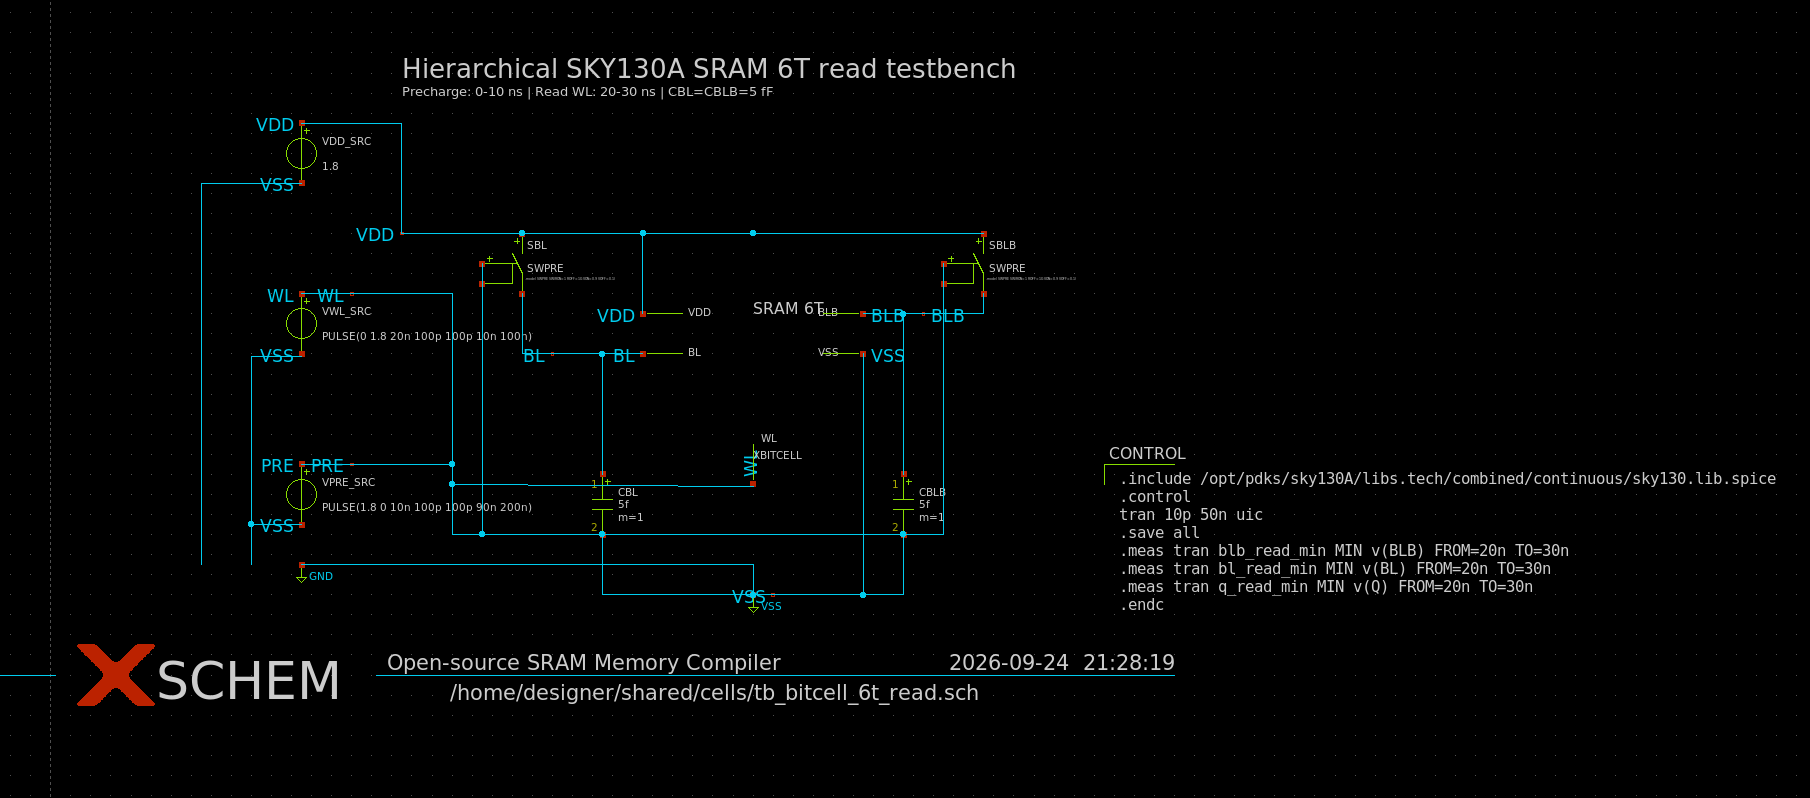
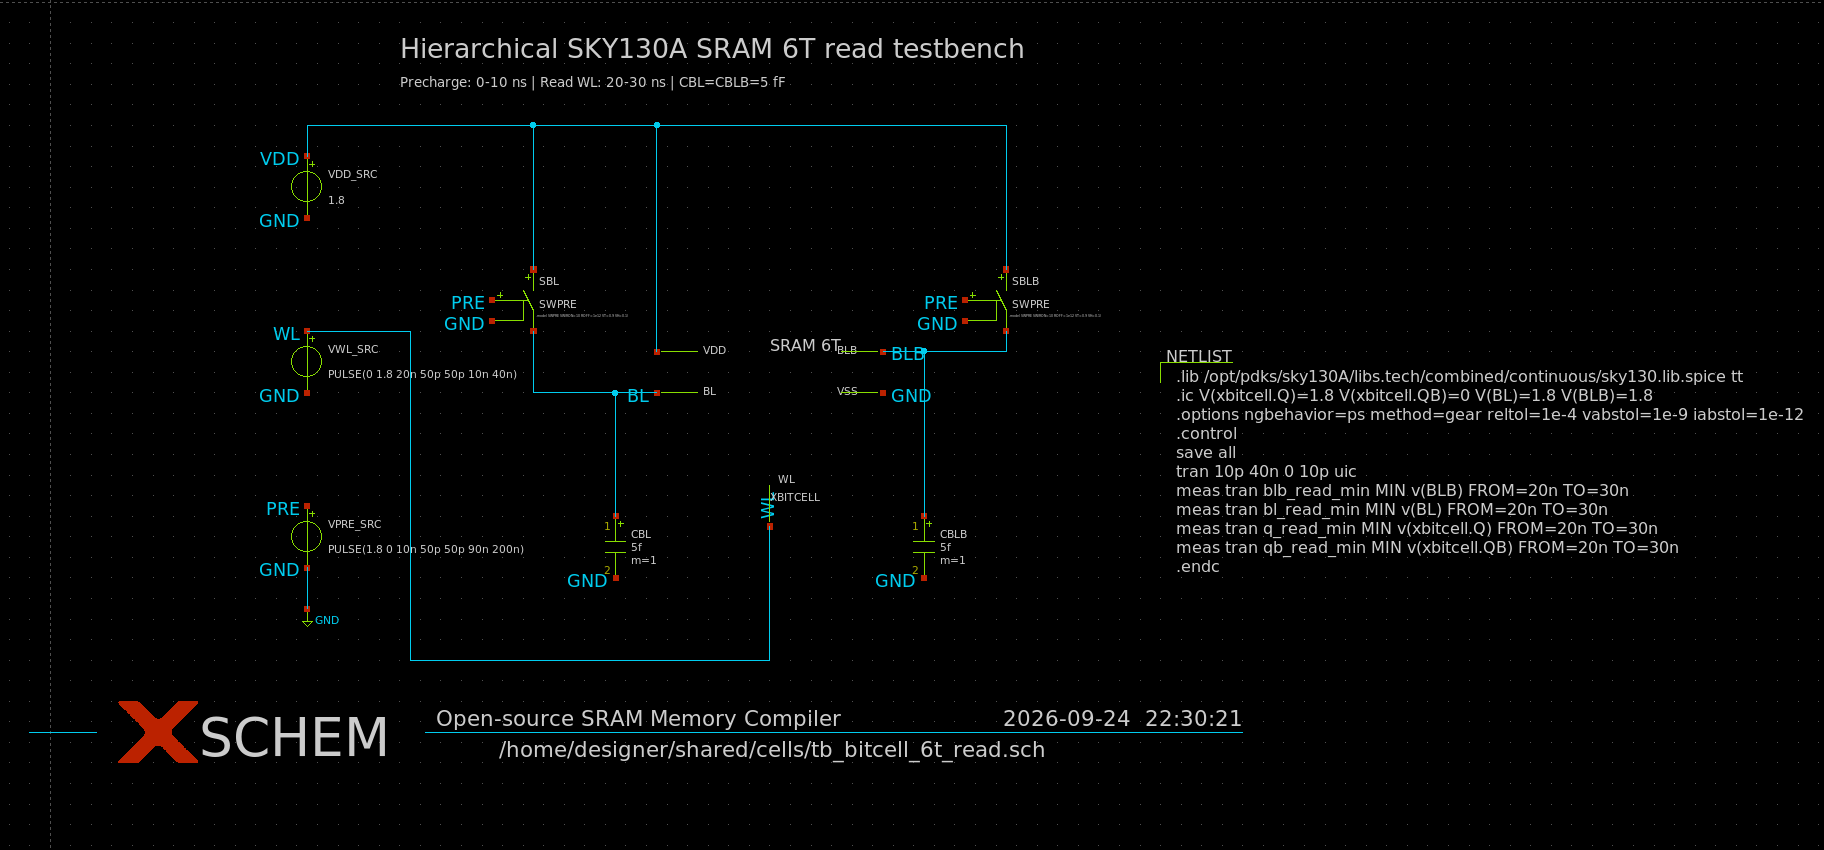
docs: update SKY130A bitcell validation
Documenta os testes isolado e hierárquico, as dificuldades com modelos e análise transitória, os resultados corrigidos e as limitações do sizing provisório.

diff --git a/docs/relatorio_validacao_bitcell_6t_sky130.md b/docs/relatorio_validacao_bitcell_6t_sky130.md
@@ -96,7 +96,7 @@ O testbench contém a instância `XBITCELL`, fontes de `VDD`, `WL` e `PRE`,
 chaves ideais de pré-carga em `BL` e `BLB`, capacitores de 5 fF nas bitlines e
 um bloco de controle com as medições de leitura. A sequência representada é:
 
-- pré-carga de 0 ns a 10 ns;
+- pré-carga desligada após 10 ns;
 - leitura com `WL` ativo de 20 ns a 30 ns;
 - observação de `BL`, `BLB` e `Q`.
 
@@ -111,17 +111,17 @@ cells/bitcell_6t.sym
 cells/tb_bitcell_6t_read.sch
 ~~~
 
-A geração do netlist hierárquico foi verificada. O símbolo expandiu a célula
-com a interface `VDD BL BLB VSS WL`, preservando a conectividade dos seis
-transistores e dos nós internos `Q` e `QB`. A captura é usada para inspeção
-visual e edição dos estímulos; a validação elétrica oficial continua sendo
-executada pelo deck externo `sims/tb_bitcell_6t_read.spice`.
+A geração e a simulação do netlist hierárquico foram verificadas no corner
+`tt`. O símbolo expande a interface `VDD BL BLB VSS WL` e permite passar
+`WPU`, `WPD` e `WACC`. A instância do testbench usa 0,42 µm nos seis
+transistores; os valores alvo continuam como padrões do símbolo e ainda não
+foram validados no conjunto de modelos contínuos instalado.
 
 Foram preparados os seguintes arquivos em cells/:
 
 | Arquivo | Função | Estado |
 |---|---|---|
-| bitcell_6t.sch | bitcell SRAM 6T | captura canônica, ainda não aprovada por netlist |
+| bitcell_6t.sch | bitcell SRAM 6T | netlist hierárquico e simulação `tt` verificados com sizing provisório |
 | sense_amp.sch | voltage-latch sense amplifier | rascunho estrutural |
 | precharge.sch | pré-carga e equalização | rascunho estrutural |
 | wl_driver.sch | driver de WL | rascunho estrutural |
@@ -134,7 +134,9 @@ Os nomes de sinais foram padronizados como:
 BL BLB WL SCLK PRECH DATA DATA_B WE VDD VSS SA_OUT SA_OUTB
 ~~~
 
-O sense_amp foi definido como um latch diferencial habilitado por SCLK. Os símbolos .sym ainda não foram considerados aprovados, pois a inspeção de conectividade e a geração de netlist do Xschem não foram concluídas.
+O sense_amp foi definido como um latch diferencial habilitado por SCLK. Os
+símbolos das células periféricas ainda dependem de inspeção de conectividade
+e validação elétrica próprias.
 
 ## 3. Preparação do ambiente gráfico
 
@@ -171,7 +173,7 @@ export PDK_ROOT=/opt/pdks
 xschem cells/bitcell_6t.sch
 ~~~
 
-## 4. Problema encontrado no netlist Xschem
+## 4. Dificuldades com o netlist e a simulação Xschem
 
 Ao tentar simular diretamente bitcell_6t.sch, o Xschem gerou instâncias como:
 
@@ -185,26 +187,84 @@ O ngspice reportou:
 Unknown subckt: xmp1 ... sky130_fd_pr__pfet_01v8
 ~~~
 
-Os símbolos sky130_fd_pr/pfet_01v8.sym e nfet_01v8.sym geram instâncias X, enquanto a biblioteca contínua usada pelo smoke test fornece modelos compatíveis com outra forma de instanciação. Por isso, a simulação direta do esquemático Xschem ficou pendente.
+Os símbolos `sky130_fd_pr` geram instâncias `X`. Ao netlistar a folha
+isoladamente, a biblioteca contínua não estava incluída e o ngspice não
+reconhecia `sky130_fd_pr__pfet_01v8` e `sky130_fd_pr__nfet_01v8`. Foi incluído
+em `bitcell_6t.sch` um bloco `netlist.sym` marcado `only_toplevel=true`, com a
+biblioteca SKY130A `tt` e parâmetros provisórios de 0,42 µm. Assim, o modelo
+fica disponível ao netlist isolado; dentro da hierarquia esse bloco é omitido,
+pois o testbench já carrega a biblioteca e fornece os parâmetros da instância.
 
-Os avisos sobre arquivos OSDI, como psp103_nqs.osdi, não foram a causa fatal desse erro.
+A bitcell continua sendo uma leaf cell. Para que o botão **Simulate** também
+seja útil quando `bitcell_6t.sch` estiver aberta diretamente, o bloco top-level
+foi ampliado com um smoke test local: fontes de VDD, WL e PRE, duas chaves de
+pré-carga, cargas de 5 fF, condições iniciais e análise transitória. Todo esse
+conteúdo usa `only_toplevel=true`, portanto não entra no subcircuito quando a
+bitcell é instanciada por outro esquemático.
 
-### 4.1 Separação entre captura hierárquica e deck elétrico
+Os avisos sobre arquivos OSDI ausentes, como `psp103_nqs.osdi`, são distintos
+da falha `Unknown subckt`; eles não impedem essa simulação com a biblioteca
+contínua.
 
-O testbench hierárquico foi criado para permitir a inspeção visual da
-conexão entre a bitcell e o circuito de pré-carga. A expansão Xschem foi
-confirmada no arquivo de simulação com a instância:
+### 4.1 Tentativa de simulação da bitcell isolada
 
-~~~spice
-XBITCELL VDD BL BLB GND WL bitcell_6t
-.subckt bitcell_6t VDD BL BLB VSS WL
+O erro observado foi:
+
+~~~text
+Error: unknown subckt: xmpl q qb vdd vdd sky130_fd_pr__pfet_01v8 ...
 ~~~
 
-Essa verificação comprova a hierarquia e a ordem dos pinos, mas não substitui
-a execução elétrica do deck externo já validado. A simulação hierárquica pelo
-botão de simulação do Xschem permanece condicionada à compatibilidade entre os
-modelos gerados pelos símbolos `sky130_fd_pr` e a biblioteca contínua carregada
-no container.
+O netlist gerado referenciava subcircuitos SKY130 sem carregar a biblioteca e
+usava parâmetros de sizing sem valores no contexto top-level. O primeiro
+ajuste carregou `sky130.lib.spice tt` e definiu
+`WPU=WPD=WACC=0.42 µm`. Isso removeu `unknown subckt`, mas revelou a mensagem:
+
+~~~text
+Warning: No job (tran, ac, op etc.) defined:
+run simulation not started
+~~~
+
+Essa segunda mensagem não indicava falha de modelo. Ela mostrava que a folha
+não possuía uma análise. O bloco foi então convertido em `STANDALONE_TEST`,
+com estímulos equivalentes aos do testbench hierárquico e o comando
+`tran 10p 40n 0 10p uic`.
+
+A simulação isolada passou a produzir:
+
+~~~text
+No. of Data Rows : 4038
+blb_read_min = 3.727678e-08 V
+bl_read_min  = 1.799997 V
+bl_21n       = 1.835385 V
+blb_21n      = 3.727678e-08 V
+delta_21n    = 1.835385 V
+q_read_min   = 1.778301 V
+qb_read_min  = 3.060375e-08 V
+binary raw file "bitcell_6t.raw"
+~~~
+
+Esse smoke test valida a leitura de Q=1/QB=0 no corner `tt`, com 5 fF e
+sizing uniforme de 0,42 µm. Ele não substitui o sweep de corners, estados e
+capacitâncias executado pelo deck externo.
+
+### 4.2 Simulação hierárquica de leitura
+
+O testbench hierárquico permite inspecionar as conexões e executar a leitura
+no Xschem. A expansão foi confirmada com:
+
+~~~spice
+XBITCELL VDD BL BLB GND WL bitcell_6t WPU=0.42 WPD=0.42 WACC=0.42
+.subckt bitcell_6t VDD BL BLB VSS WL WPU=0.21 WPD=0.42 WACC=0.30
+~~~
+
+O erro `could not find a valid modelname` ocorria porque as larguras alvo de
+0,21 e 0,30 µm não selecionam bins válidos dos modelos contínuos instalados.
+Com a instância provisória de 0,42 µm, `.lib .../sky130.lib.spice tt` e
+condições iniciais nos nós `xbitcell.Q`/`xbitcell.QB`, o netlist hierárquico
+foi simulado pelo ngspice sem esse erro. A diferença em 21 ns foi
+`1,835385 V`; o mínimo de Q durante a leitura foi `1,778301 V`. O deck
+externo produziu `1,83618 V` e `1,773700 V`, respectivamente. A pequena
+diferença reflete detalhes distintos de parasitas das instâncias.
 
 ## 5. Testes manuais sem automação
 
@@ -277,19 +337,27 @@ cd /home/designer/shared/sims
 ngspice -n -b tb_bitcell_6t_read.spice | tee tb_bitcell_6t_read_5f.log
 ~~~
 
-Para CBL=CBLB=5 fF, o resultado foi:
+Para CBL=CBLB=5 fF, após corrigir o período de `PRE`, o resultado foi:
 
 ~~~text
 bl_pre              = 1.800000 V
 blb_pre             = 1.800000 V
-blb_read_min        = 0.9531515 V
-delta_max           = 1.8 - 0.9531515 = 0.8468485 V
-q_read_min          = 1.799998 V
+bl_21n              = 1.836183 V
+blb_21n             = 0.000000046 V
+delta_21n           = 1.83618 V
+q_read_min          = 1.773700 V
 ~~~
 
-O valor medido em 29 ns foi somente 1,08432 mV, porque o diferencial já havia se recuperado nesse instante. A métrica correta passou a ser a maior queda durante toda a janela de leitura:
+Na versão anterior, `PRE` voltava ao nível alto em 20 ns, junto com `WL`.
+Por isso, o diferencial de `1,08432 mV` em 29 ns e a queda máxima de
+`0,8468485 V` não mediam a leitura com a pré-carga desligada. Esses
+resultados foram substituídos. A medição de `blb_read_min` continua útil para
+acompanhar a descarga completa, mas o critério automatizado usa a diferença
+entre `BL` e `BLB` em 21 ns:
 
 ~~~spice
+.meas tran bl_21n FIND V(bl) AT=21n
+.meas tran blb_21n FIND V(blb) AT=21n
 .meas tran blb_read_min MIN V(blb) FROM=20n TO=30n
 ~~~
 
@@ -310,8 +378,8 @@ O script:
 3. testa os estados Q=1/QB=0 e Q=0/QB=1;
 4. troca automaticamente o corner do .lib;
 5. executa o ngspice em arquivos temporários;
-6. extrai bl_read_min, blb_read_min, q_read_min e qb_read_min;
-7. calcula delta_max na bitline que deve descarregar;
+6. extrai BL/BLB em 21 ns, os mínimos das bitlines e os mínimos de Q/QB;
+7. calcula o diferencial em 21 ns com a polaridade esperada para cada estado;
 8. verifica o nó armazenado em nível alto;
 9. salva o resultado em CSV;
 10. retorna código diferente de zero se algum caso falhar.
@@ -319,7 +387,7 @@ O script:
 Critérios usados pelo script:
 
 ~~~text
-delta_max >= 50 mV
+delta_21n >= 50 mV
 nó armazenado em nível alto >= 0,9 V
 ~~~
 
@@ -360,21 +428,21 @@ sims/bitcell_read_sweep.csv
 
 Todos os 40 casos executados retornaram PASS com os critérios provisórios do script.
 
-O pior caso foi:
+O menor diferencial em 21 ns foi:
 
-| Corner | Capacitância | Estado | Bitline descarregada | delta_max |
+| Corner | Capacitância | Estado | Bitline descarregada | delta_21n |
 |---|---:|---:|---|---:|
-| ss | 50 fF | Q=1 ou Q=0 | BLB ou BL | 67,325 mV |
+| ss | 50 fF | Q=1 ou Q=0 | BLB ou BL | 1,4258955 V |
 
-Menores margens por corner em 50 fF:
+Menores diferenciais por corner em 50 fF:
 
-| Corner | delta_max mínimo |
+| Corner | delta_21n mínimo |
 |---|---:|
-| tt | 90,174 mV |
-| ff | 116,404 mV |
-| ss | 67,325 mV |
-| fs | 71,310 mV |
-| sf | 111,131 mV |
+| tt | 1,6381313 V |
+| ff | 1,7337567 V |
+| ss | 1,4258955 V |
+| fs | 1,4886067 V |
+| sf | 1,7171562 V |
 
 Esses resultados mostram margem acima do critério automatizado de 50 mV para o modelo e o sizing provisório usados.
 
@@ -384,8 +452,8 @@ Os resultados não constituem sign-off da bitcell. Permanecem as seguintes limit
 
 1. O teste automatizado usa WPU=WPD=WACC=0,42 um, não o sizing alvo WPU=0,21 um, WPD=0,42 um e WACC=0,30 um.
 2. O modelo contínuo disponível rejeitou os bins necessários para os valores menores de largura na forma de instância usada.
-3. O critério automatizado foi delta_max >= 50 mV, enquanto a especificação inicial registra como meta provisória 100 mV. No pior caso ss/50 fF, a margem de 67,325 mV passa o critério automatizado, mas não passa a meta de 100 mV.
-4. O netlist gerado diretamente pelos símbolos Xschem ainda não foi validado contra a biblioteca carregada no container.
+3. O critério automatizado usa `delta_21n >= 50 mV`. A janela de detecção real do sense amplifier e a capacitância de uma coluna completa ainda precisam ser definidos.
+4. O testbench hierárquico foi validado no corner `tt` e estado Q=1/QB=0; o sweep de cinco corners e dois estados usa o deck externo.
 5. sense_amp, precharge, wl_driver e write_driver ainda não possuem testbenches elétricos aprovados.
 6. Não foram executados SNM de retenção, SNM de leitura, write margin, leakage, Monte Carlo de mismatch, DRC, LVS ou extração parasitária.
 7. A bitline foi representada por um modelo simples de chave e capacitor. Esse modelo ainda não representa a coluna completa, a resistência dos drivers, o sense amplifier ou a distribuição real de parasitas.
@@ -396,7 +464,8 @@ Os resultados não constituem sign-off da bitcell. Permanecem as seguintes limit
 |---|---|
 | topologia 6T | definida |
 | contrato de pinos | definido |
-| captura inicial Xschem | criada, pendente de netlist compatível |
+| captura inicial Xschem | netlist e conectividade verificados |
+| smoke isolado da bitcell | simulação `tt`, 4038 pontos e arquivo RAW gerado |
 | retenção manual | passou no sizing provisório |
 | escrita manual | passou no sizing provisório |
 | leitura com bitlines ideais | não conclusiva |
@@ -404,7 +473,7 @@ Os resultados não constituem sign-off da bitcell. Permanecem as seguintes limit
 | sweep de capacitância | automatizado |
 | corners tt/ff/ss/fs/sf | 40 casos executados, todos PASS no critério de 50 mV |
 | símbolo hierárquico da bitcell | criado e expandido no netlist Xschem |
-| testbench hierárquico de leitura | criado para inspeção visual; deck externo permanece oficial |
+| testbench hierárquico de leitura | simulado em `tt`; deck externo usado para sweep |
 | sizing alvo 0,21/0,42/0,30 um | pendente |
 | sense amplifier | pendente |
 | drivers e pré-carga | pendentes |
@@ -415,8 +484,8 @@ Os resultados não constituem sign-off da bitcell. Permanecem as seguintes limit
 
 A sequência recomendada é:
 
-1. Resolver a compatibilidade entre os símbolos Xschem e os modelos SKY130A usados no ngspice.
-2. Reexecutar a varredura com o sizing alvo.
+1. Obter modelos válidos para o sizing alvo e reexecutar a varredura.
+2. Definir o instante de habilitação do sense amplifier e a carga real da coluna.
 3. Automatizar retenção e escrita nos cinco corners.
 4. Testar o precharge com equalização e desligamento correto.
 5. Testar o write_driver com DATA, DATA_B e WE.

diff --git a/README.md b/README.md
@@ -159,6 +159,10 @@ O esquemático contém os seis transistores e os nós Q, QB, BL, BLB, WL, VDD
 e VSS. A captura está em
 [docs/assets/bitcell_6t_xschem.png](docs/assets/bitcell_6t_xschem.png).
 
+Quando a bitcell é aberta diretamente, um smoke test `only_toplevel` carrega
+o corner `tt`, aplica pré-carga e WL e grava `bitcell_6t.raw`. Esse bloco usa
+`WPU=WPD=WACC=0.42 µm` e é omitido quando a célula participa da hierarquia.
+
 O testbench visual de leitura é aberto com:
 
 ~~~bash
@@ -179,16 +183,19 @@ com WL ativo de 20 ns a 30 ns.
 
 ![Testbench hierárquico da bitcell SRAM 6T no Xschem](docs/assets/tb_bitcell_6t_read_xschem.png)
 
-A expansão confirmou:
+A expansão confirmou o sizing provisório da instância:
 
 ~~~spice
-XBITCELL VDD BL BLB GND WL bitcell_6t
+XBITCELL VDD BL BLB GND WL bitcell_6t WPU=0.42 WPD=0.42 WACC=0.42
 ~~~
 
-A captura hierárquica serve para inspeção e edição dos estímulos. O deck
-externo continua sendo a referência dos resultados elétricos, pois a simulação
-direta dos símbolos sky130_fd_pr ainda depende da compatibilidade entre o
-netlist gerado e a biblioteca carregada.
+O símbolo mantém como padrão o sizing alvo `WPU=0.21`, `WPD=0.42` e
+`WACC=0.30` µm. A instância do testbench usa 0,42 µm nos seis transistores,
+valor aceito pelo modelo contínuo instalado. O botão **Simulate** do Xschem
+executa o testbench hierárquico em `tt`; o deck externo e o sweep cobrem os
+demais corners e o estado complementar. Os dois fluxos usam pré-carga
+desligada durante toda a leitura. Os nós internos são medidos com os nomes
+hierárquicos `xbitcell.Q` e `xbitcell.QB`.
 
 ## Testes manuais
 
@@ -224,12 +231,14 @@ Para CBL = CBLB = 5 fF:
 ~~~text
 bl_pre       = 1.800000 V
 blb_pre      = 1.800000 V
-blb_read_min = 0.9531515 V
-delta_max    = 0.8468485 V
-q_read_min   = 1.799998 V
+blb_21n      ≈ 0 V
+delta_21n    = 1.83618 V
+q_read_min   = 1.773700 V
 ~~~
 
-A métrica usada é a maior queda durante a janela de leitura:
+A margem diferencial é avaliada em 21 ns, com as bitlines isoladas da fonte
+de pré-carga. A menor tensão da bitline durante a leitura continua disponível
+como diagnóstico de descarga:
 
 ~~~spice
 .meas tran blb_read_min MIN V(blb) FROM=20n TO=30n
@@ -262,13 +271,14 @@ Foram executados 40 casos:
 Critérios provisórios:
 
 ~~~
-delta_max >= 50 mV
+delta_21n >= 50 mV
 nó armazenado em nível alto >= 0,9 V
 ~~~
 
-Todos os 40 casos retornaram PASS. O pior caso foi ss com 50 fF, com
-delta_max = 67,325 mV. Isso passa o critério automatizado de 50 mV, mas fica
-abaixo da meta provisória de 100 mV registrada no guia.
+Todos os 40 casos retornaram PASS. A menor diferença em 21 ns foi
+`1,4258955 V`, no corner `ss` com 50 fF. Esses números substituem o sweep
+anterior, no qual `PRE` voltava a ligar quando `WL` subia e reduzia
+artificialmente a diferença medida.
 
 O CSV é salvo em sims/bitcell_read_sweep.csv.
 
@@ -280,7 +290,7 @@ O CSV é salvo em sims/bitcell_read_sweep.csv.
 | Fórmulas beta-ratio e gamma-ratio | documentadas |
 | Captura da bitcell no Xschem | criada |
 | Símbolo hierárquico | criado e expandido no netlist |
-| Testbench hierárquico | criado e documentado |
+| Testbench hierárquico | netlist e simulação ngspice executados em `tt` |
 | Retenção manual | passou no sizing provisório |
 | Escrita manual | passou no sizing provisório |
 | Leitura capacitiva | passou com critério de 50 mV |

diff --git a/cells/README.md b/cells/README.md
@@ -26,9 +26,18 @@ export PDK_ROOT=/opt/pdks
 xschem cells/tb_bitcell_6t_read.sch
 ```
 
+`bitcell_6t.sch` é uma leaf cell, mas contém um smoke test marcado
+`only_toplevel=true`. Quando aberta diretamente, ela carrega os modelos
+SKY130A, usa `WPU=WPD=WACC=0.42 µm`, aplica pré-carga e um pulso de WL e grava
+`bitcell_6t.raw`. Quando instanciada, esse smoke test é omitido e os estímulos
+vêm do testbench hierárquico.
+
 O arquivo `tb_bitcell_6t_read.sch` instancia `bitcell_6t.sym`, duas chaves
-ideais de pré-carga e os capacitores de 5 fF em `BL` e `BLB`. A sequência
-visual é pré-carga de 0 a 10 ns e leitura com `WL` de 20 a 30 ns.
+ideais de pré-carga e os capacitores de 5 fF em `BL` e `BLB`. A pré-carga é
+desligada em 10 ns e permanece desligada durante a leitura, de 20 a 30 ns.
+O símbolo tem parâmetros `WPU`, `WPD` e `WACC`: seus padrões são os valores
+alvo 0,21/0,42/0,30 µm; o testbench usa explicitamente 0,42/0,42/0,42 µm,
+único sizing desta etapa aceito pelos modelos contínuos instalados.
 
 As fontes do testbench usam `vsource_drive.sym`, que declara o terminal
 positivo como saída para que o ERC do Xschem reconheça `WL` e `PRE` como redes
@@ -36,7 +45,10 @@ dirigidas. O retorno elétrico usa uma única rede `GND`, conectada ao pino `VSS
 da bitcell, evitando o curto artificial entre `GND` e `VSS` causado por duas
 redes de referência distintas.
 
-Para a validação elétrica oficial, continue usando o deck externo
-`sims/tb_bitcell_6t_read.spice` e o sweep automatizado. O testbench Xschem é a
-visão hierárquica para inspeção e edição dos estímulos; ele não substitui o
-deck externo validado.
+O botão de simulação do Xschem executa o testbench hierárquico com o corner
+`tt`. O bloco de controle inicializa `Q=1` e `QB=0`, mede as bitlines em 21 ns
+e mede os nós internos como `v(xbitcell.Q)` e `v(xbitcell.QB)`. A simulação
+grava `tb_bitcell_6t_read.raw` no diretório de simulações do Xschem para
+inspeção das formas de onda. O deck externo
+`sims/tb_bitcell_6t_read.spice` usa os mesmos estímulos para o sweep dos cinco
+corners e dos dois estados armazenados.
